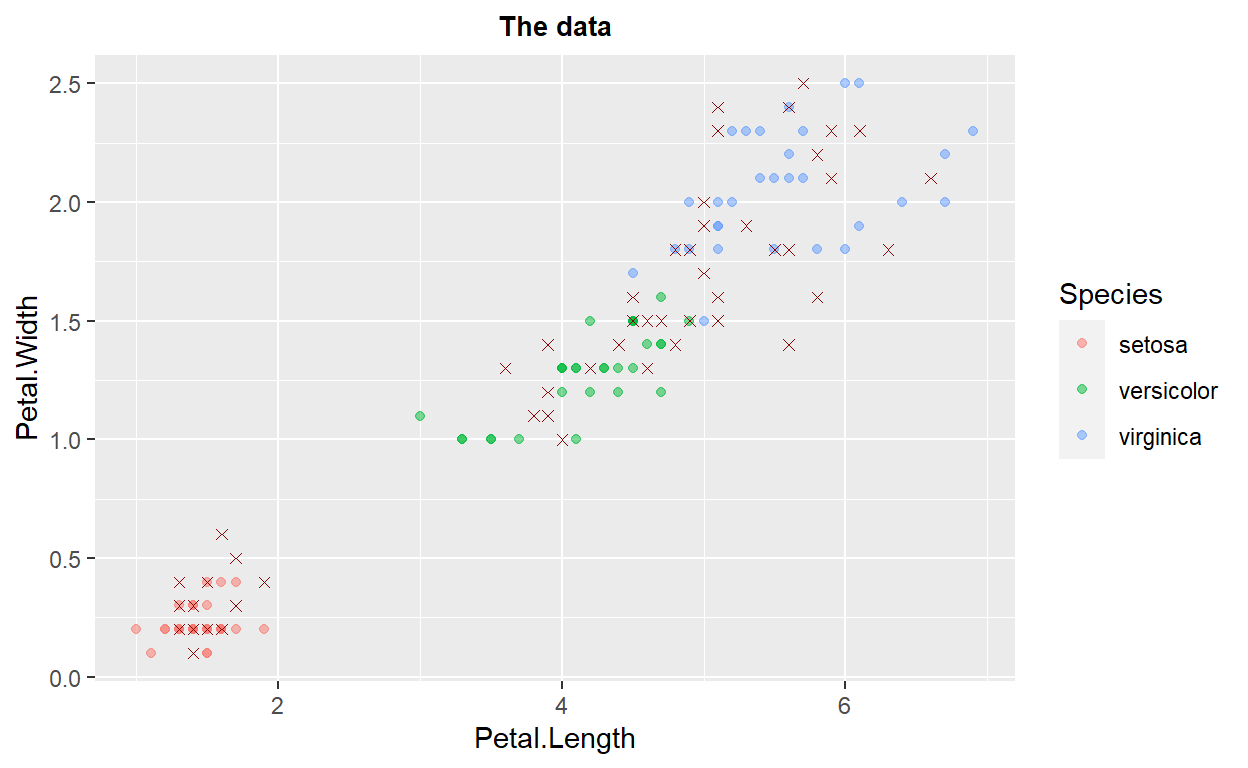
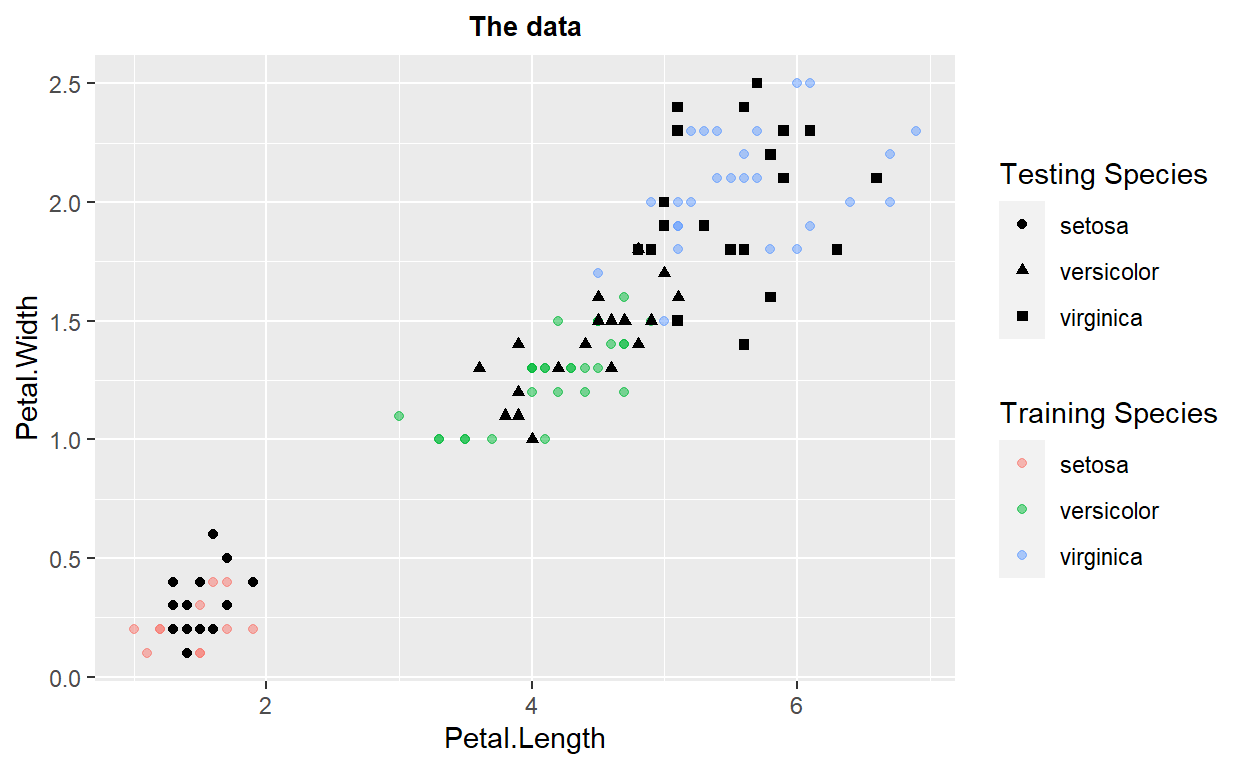
making decision surfaces look good

diff --git a/docs/BaggingRandomForest.html b/docs/BaggingRandomForest.html
@@ -2450,6 +2450,7 @@ Modules
 </ul></li>
 <li><a href="#exercise-2">Exercise 2</a>
 <ul>
+<li><a href="#decision-surfaces">Decision Surfaces</a></li>
 <li><a href="#random-forrest-regression"><strong>Random Forrest: Regression</strong></a></li>
 </ul></li>
 <li><a href="#exercise-3">Exercise 3</a>
@@ -3655,8 +3656,8 @@ x
 <span class='va'>irisTrain</span> <span class='op'>&lt;-</span> <span class='va'>iris</span><span class='op'>[</span> <span class='va'>trainIndex</span>,<span class='op'>]</span>
 <span class='va'>irisTest</span>  <span class='op'>&lt;-</span> <span class='va'>iris</span><span class='op'>[</span><span class='op'>-</span><span class='va'>trainIndex</span>,<span class='op'>]</span>
 
-<span class='fu'>ggplot</span><span class='op'>(</span>data<span class='op'>=</span><span class='va'>irisTrain</span>,mapping <span class='op'>=</span> <span class='fu'>aes</span><span class='op'>(</span>x<span class='op'>=</span><span class='va'>Petal.Length</span>,y<span class='op'>=</span><span class='va'>Petal.Width</span>,color<span class='op'>=</span><span class='va'>Species</span><span class='op'>)</span><span class='op'>)</span><span class='op'>+</span><span class='fu'>geom_point</span><span class='op'>(</span>alpha<span class='op'>=</span><span class='fl'>0.5</span><span class='op'>)</span> <span class='op'>+</span> 
-  <span class='fu'>geom_point</span><span class='op'>(</span>data<span class='op'>=</span><span class='va'>irisTest</span>, color<span class='op'>=</span><span class='st'>"darkred"</span>, shape<span class='op'>=</span><span class='fl'>4</span><span class='op'>)</span> <span class='op'>+</span> 
+<span class='fu'>ggplot</span><span class='op'>(</span>data<span class='op'>=</span><span class='va'>irisTrain</span><span class='op'>)</span><span class='op'>+</span><span class='fu'>geom_point</span><span class='op'>(</span>mapping <span class='op'>=</span> <span class='fu'>aes</span><span class='op'>(</span>x<span class='op'>=</span><span class='va'>Petal.Length</span>,y<span class='op'>=</span><span class='va'>Petal.Width</span>,color<span class='op'>=</span><span class='va'>Species</span><span class='op'>)</span>,alpha<span class='op'>=</span><span class='fl'>0.5</span><span class='op'>)</span> <span class='op'>+</span> <span class='fu'>labs</span><span class='op'>(</span>color <span class='op'>=</span> <span class='st'>"Training Species"</span><span class='op'>)</span><span class='op'>+</span>
+<span class='fu'>geom_point</span><span class='op'>(</span>data<span class='op'>=</span><span class='va'>irisTest</span>, ,mapping <span class='op'>=</span> <span class='fu'>aes</span><span class='op'>(</span>x<span class='op'>=</span><span class='va'>Petal.Length</span>,y<span class='op'>=</span><span class='va'>Petal.Width</span>,shape<span class='op'>=</span><span class='va'>Species</span><span class='op'>)</span><span class='op'>)</span> <span class='op'>+</span> <span class='fu'>labs</span><span class='op'>(</span>shape <span class='op'>=</span> <span class='st'>"Testing Species"</span><span class='op'>)</span> <span class='op'>+</span>
   <span class='fu'>ggtitle</span><span class='op'>(</span><span class='st'>"The data"</span><span class='op'>)</span><span class='op'>+</span>
   <span class='fu'>theme</span><span class='op'>(</span>plot.title <span class='op'>=</span> <span class='fu'>element_text</span><span class='op'>(</span>hjust<span class='op'>=</span><span class='fl'>0.5</span>, size<span class='op'>=</span><span class='fl'>10</span>, face<span class='op'>=</span><span class='st'>'bold'</span><span class='op'>)</span><span class='op'>)</span>
 </code></pre>
@@ -4719,6 +4720,66 @@ color<span class='op'>=</span><span class='st'>'skyblue'</span><span class='op'>
 <li>Use the tips data and predict <code>sex</code>. Use all of the variables. Did the model improve from 1?</li>
 <li>What are the most important variables from 2?</li>
 </ol>
+<h2 id="decision-surfaces">Decision Surfaces</h2>
+<div class="layout-chunk" data-layout="l-body">
+<div class="sourceCode">
+<pre class="sourceCode r"><code class="sourceCode r"><span class='fu'><a href='https://rdrr.io/r/base/Random.html'>set.seed</a></span><span class='op'>(</span><span class='fl'>1</span><span class='op'>)</span>
+<span class='co'>#lets split the data 60/40</span>
+<span class='kw'><a href='https://rdrr.io/r/base/library.html'>library</a></span><span class='op'>(</span><span class='va'><a href='https://github.com/topepo/caret/'>caret</a></span><span class='op'>)</span>
+<span class='va'>trainIndex</span> <span class='op'>&lt;-</span> <span class='fu'><a href='https://rdrr.io/pkg/caret/man/createDataPartition.html'>createDataPartition</a></span><span class='op'>(</span><span class='va'>iris</span><span class='op'>$</span><span class='va'>Species</span>, p <span class='op'>=</span> <span class='fl'>.6</span>, list <span class='op'>=</span> <span class='cn'>FALSE</span>, times <span class='op'>=</span> <span class='fl'>1</span><span class='op'>)</span>
+
+<span class='co'>#grab the data</span>
+<span class='va'>train</span> <span class='op'>&lt;-</span> <span class='va'>iris</span><span class='op'>[</span> <span class='va'>trainIndex</span>,<span class='op'>]</span>
+<span class='va'>test</span>  <span class='op'>&lt;-</span> <span class='va'>iris</span><span class='op'>[</span><span class='op'>-</span><span class='va'>trainIndex</span>,<span class='op'>]</span>
+
+<span class='va'>IrisRF</span><span class='op'>&lt;-</span> <span class='fu'><a href='https://rdrr.io/pkg/caret/man/train.html'>train</a></span><span class='op'>(</span>
+  form <span class='op'>=</span> <span class='fu'><a href='https://rdrr.io/r/base/factor.html'>factor</a></span><span class='op'>(</span><span class='va'>Species</span><span class='op'>)</span> <span class='op'>~</span> <span class='va'>.</span>,
+  data <span class='op'>=</span> <span class='va'>train</span>,
+  <span class='co'>#here we add classProbs because we want probs</span>
+  trControl <span class='op'>=</span> <span class='fu'><a href='https://rdrr.io/pkg/caret/man/trainControl.html'>trainControl</a></span><span class='op'>(</span>method <span class='op'>=</span> <span class='st'>"cv"</span>, number <span class='op'>=</span> <span class='fl'>10</span>,
+                           classProbs <span class='op'>=</span>  <span class='cn'>TRUE</span><span class='op'>)</span>,
+  method <span class='op'>=</span> <span class='st'>"rf"</span>,
+  tuneGrid<span class='op'>=</span><span class='fu'><a href='https://rdrr.io/r/base/data.frame.html'>data.frame</a></span><span class='op'>(</span>mtry<span class='op'>=</span><span class='fl'>1</span><span class='op'>)</span><span class='op'>)</span>
+
+
+<span class='va'>pl</span> <span class='op'>=</span> <span class='fu'><a href='https://rdrr.io/r/base/seq.html'>seq</a></span><span class='op'>(</span><span class='fu'><a href='https://rdrr.io/r/base/Extremes.html'>min</a></span><span class='op'>(</span><span class='va'>iris</span><span class='op'>$</span><span class='va'>Petal.Length</span><span class='op'>)</span>, <span class='fu'><a href='https://rdrr.io/r/base/Extremes.html'>max</a></span><span class='op'>(</span><span class='va'>iris</span><span class='op'>$</span><span class='va'>Petal.Length</span><span class='op'>)</span>, by<span class='op'>=</span><span class='fl'>0.1</span><span class='op'>)</span>
+<span class='va'>pw</span> <span class='op'>=</span> <span class='fu'><a href='https://rdrr.io/r/base/seq.html'>seq</a></span><span class='op'>(</span><span class='fu'><a href='https://rdrr.io/r/base/Extremes.html'>min</a></span><span class='op'>(</span><span class='va'>iris</span><span class='op'>$</span><span class='va'>Petal.Width</span><span class='op'>)</span>, <span class='fu'><a href='https://rdrr.io/r/base/Extremes.html'>max</a></span><span class='op'>(</span><span class='va'>iris</span><span class='op'>$</span><span class='va'>Petal.Width</span><span class='op'>)</span>, by<span class='op'>=</span><span class='fl'>0.1</span><span class='op'>)</span>
+
+<span class='co'># generates the boundaries for your graph</span>
+<span class='va'>lgrid</span> <span class='op'>&lt;-</span> <span class='fu'><a href='https://rdrr.io/r/base/expand.grid.html'>expand.grid</a></span><span class='op'>(</span>Petal.Length<span class='op'>=</span><span class='va'>pl</span>, 
+                     Petal.Width<span class='op'>=</span><span class='va'>pw</span>,
+                     Sepal.Length <span class='op'>=</span> <span class='fl'>5.4</span>,
+                     Sepal.Width<span class='op'>=</span><span class='fl'>3.1</span><span class='op'>)</span>
+
+<span class='va'>IrisRFGrid2</span> <span class='op'>&lt;-</span> <span class='fu'><a href='https://rdrr.io/r/stats/predict.html'>predict</a></span><span class='op'>(</span><span class='va'>IrisRF</span>, newdata<span class='op'>=</span><span class='va'>lgrid</span><span class='op'>)</span>
+<span class='va'>IrisRFGrid</span> <span class='op'>&lt;-</span> <span class='fu'><a href='https://rdrr.io/r/base/numeric.html'>as.numeric</a></span><span class='op'>(</span><span class='va'>IrisRFGrid2</span><span class='op'>)</span>
+
+<span class='co'># get the points from the test data...</span>
+<span class='va'>testPred</span> <span class='op'>&lt;-</span> <span class='fu'><a href='https://rdrr.io/r/stats/predict.html'>predict</a></span><span class='op'>(</span><span class='va'>IrisRF</span>, newdata<span class='op'>=</span><span class='va'>test</span><span class='op'>)</span>
+<span class='va'>testPred</span> <span class='op'>&lt;-</span> <span class='fu'><a href='https://rdrr.io/r/base/numeric.html'>as.numeric</a></span><span class='op'>(</span><span class='va'>testPred</span><span class='op'>)</span>
+<span class='co'># this gets the points for the testPred...</span>
+<span class='va'>test</span><span class='op'>$</span><span class='va'>Pred</span> <span class='op'>&lt;-</span> <span class='va'>testPred</span>
+
+<span class='va'>probs</span> <span class='op'>&lt;-</span> <span class='fu'><a href='https://rdrr.io/r/base/matrix.html'>matrix</a></span><span class='op'>(</span><span class='va'>IrisRFGrid</span>, <span class='fu'><a href='https://rdrr.io/r/base/length.html'>length</a></span><span class='op'>(</span><span class='va'>pl</span><span class='op'>)</span>, <span class='fu'><a href='https://rdrr.io/r/base/length.html'>length</a></span><span class='op'>(</span><span class='va'>pw</span><span class='op'>)</span><span class='op'>)</span>
+
+<span class='fu'>ggplot</span><span class='op'>(</span>data<span class='op'>=</span><span class='va'>lgrid</span><span class='op'>)</span> <span class='op'>+</span> <span class='fu'>stat_contour</span><span class='op'>(</span><span class='fu'>aes</span><span class='op'>(</span>x<span class='op'>=</span><span class='va'>Petal.Length</span>, y<span class='op'>=</span><span class='va'>Petal.Width</span>, z<span class='op'>=</span><span class='va'>IrisRFGrid</span><span class='op'>)</span>,bins<span class='op'>=</span><span class='fl'>10</span><span class='op'>)</span> <span class='op'>+</span>
+  <span class='fu'>geom_point</span><span class='op'>(</span><span class='fu'>aes</span><span class='op'>(</span>x<span class='op'>=</span><span class='va'>Petal.Length</span>, y<span class='op'>=</span><span class='va'>Petal.Width</span>, colour<span class='op'>=</span><span class='va'>IrisRFGrid2</span><span class='op'>)</span>,alpha<span class='op'>=</span><span class='fl'>.2</span><span class='op'>)</span> <span class='op'>+</span>
+  <span class='fu'>geom_point</span><span class='op'>(</span>data<span class='op'>=</span><span class='va'>test</span>, <span class='fu'>aes</span><span class='op'>(</span>x<span class='op'>=</span><span class='va'>Petal.Length</span>, y<span class='op'>=</span><span class='va'>Petal.Width</span>, shape<span class='op'>=</span><span class='va'>Species</span><span class='op'>)</span>, size<span class='op'>=</span><span class='fl'>2</span><span class='op'>)</span> <span class='op'>+</span> 
+  <span class='fu'>labs</span><span class='op'>(</span>shape <span class='op'>=</span> <span class='st'>"Testing Species"</span><span class='op'>)</span> <span class='op'>+</span>
+  <span class='fu'>geom_point</span><span class='op'>(</span>data<span class='op'>=</span><span class='va'>train</span>, <span class='fu'>aes</span><span class='op'>(</span>x<span class='op'>=</span><span class='va'>Petal.Length</span>, y<span class='op'>=</span><span class='va'>Petal.Width</span>, color<span class='op'>=</span><span class='va'>Species</span><span class='op'>)</span>, size<span class='op'>=</span><span class='fl'>2</span>, alpha<span class='op'>=</span><span class='fl'>0.75</span><span class='op'>)</span><span class='op'>+</span>
+  <span class='fu'>theme_bw</span><span class='op'>(</span><span class='op'>)</span><span class='op'>+</span> 
+  <span class='fu'>labs</span><span class='op'>(</span>color <span class='op'>=</span> <span class='st'>"Training Species"</span><span class='op'>)</span><span class='op'>+</span>
+  <span class='fu'>ggtitle</span><span class='op'>(</span><span class='st'>"Decision Surface mtry=1"</span><span class='op'>)</span>
+</code></pre>
+</div>
+<p><img src="BaggingRandomForest_files/figure-html5/surface1-1.png" width="624" /></p>
+</div>
+<div class="layout-chunk" data-layout="l-body">
+<p><img src="BaggingRandomForest_files/figure-html5/surface2-1.png" width="624" /></p>
+</div>
+<div class="layout-chunk" data-layout="l-body">
+<p><img src="BaggingRandomForest_files/figure-html5/surface3-1.png" width="624" /></p>
+</div>
 <h2 id="random-forrest-regression"><strong>Random Forrest: Regression</strong></h2>
 <p>A random forest can also be used to perform regression; however, in this case the goal is to create trees whose leaf nodes contain data that are nearby in the overall feature space. To predict a continuous value from a tree we either have leaf nodes with only one feature, and use the relevant feature from that instance as our predictor, or we compute summary statistics from the instances in the appropriate leaf node, such as the mean or mode. In the end, the random forest aggregates the individual tree regression predictions into a final prediction.</p>
 <div class="layout-chunk" data-layout="l-body">
@@ -5406,7 +5467,7 @@ Area under the curve: 0.9725</code></pre>
 <div class="sourceCode">
 <pre class="sourceCode r"><code class="sourceCode r"><span class='va'>perf</span> <span class='op'>&lt;-</span> <span class='fu'>ROCR</span><span class='fu'>::</span><span class='fu'><a href='http://ipa-tys.github.io/ROCR/reference/performance.html'>performance</a></span><span class='op'>(</span><span class='va'>pred</span>,<span class='st'>"lift"</span>,<span class='st'>"rpp"</span><span class='op'>)</span>
 
-<span class='fu'><a href='https://rdrr.io/r/graphics/plot.default.html'>plot</a></span><span class='op'>(</span><span class='va'>perf</span>, main<span class='op'>=</span><span class='st'>"Lift curve"</span>, colorize<span class='op'>=</span><span class='cn'>T</span><span class='op'>)</span> 
+<span class='fu'><a href='https://rdrr.io/r/graphics/plot.default.html'>plot</a></span><span class='op'>(</span><span class='va'>perf</span>, main<span class='op'>=</span><span class='st'>"Lift curve"</span><span class='op'>)</span> 
 </code></pre>
 </div>
 <p><img src="BaggingRandomForest_files/figure-html5/roc-3.png" width="624" /></p>
